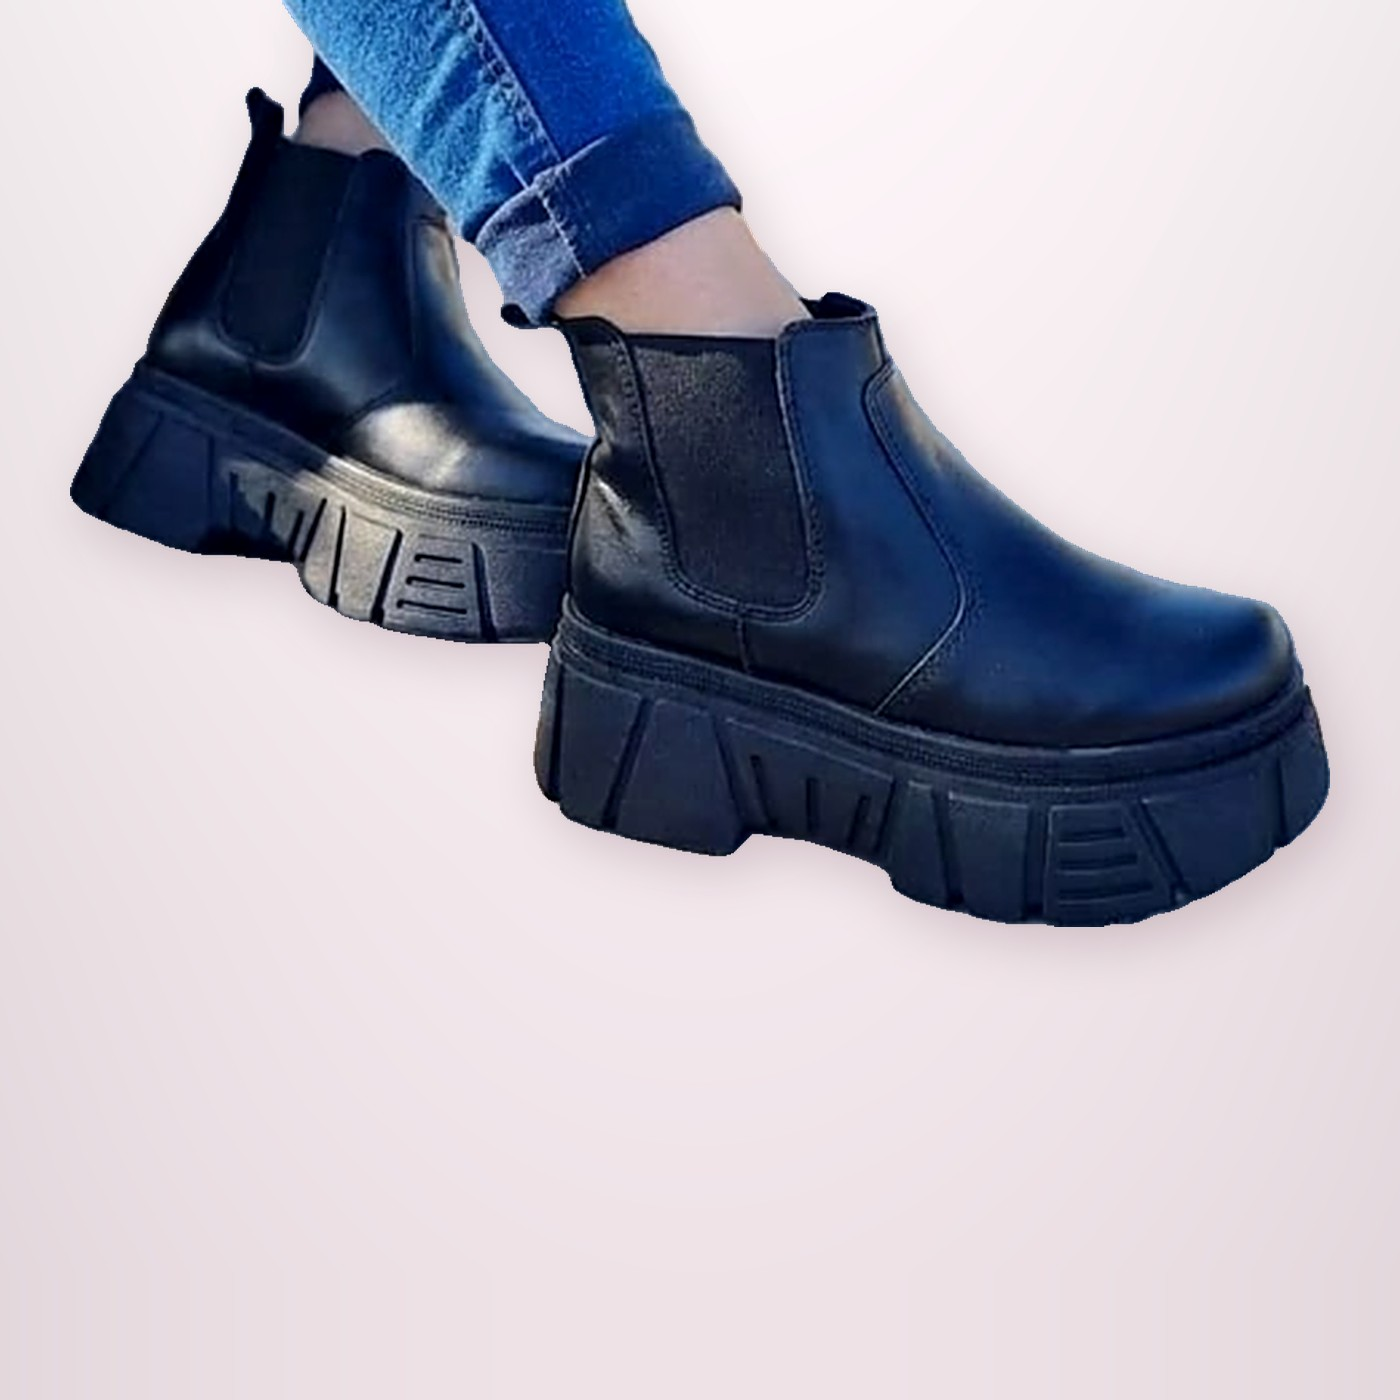
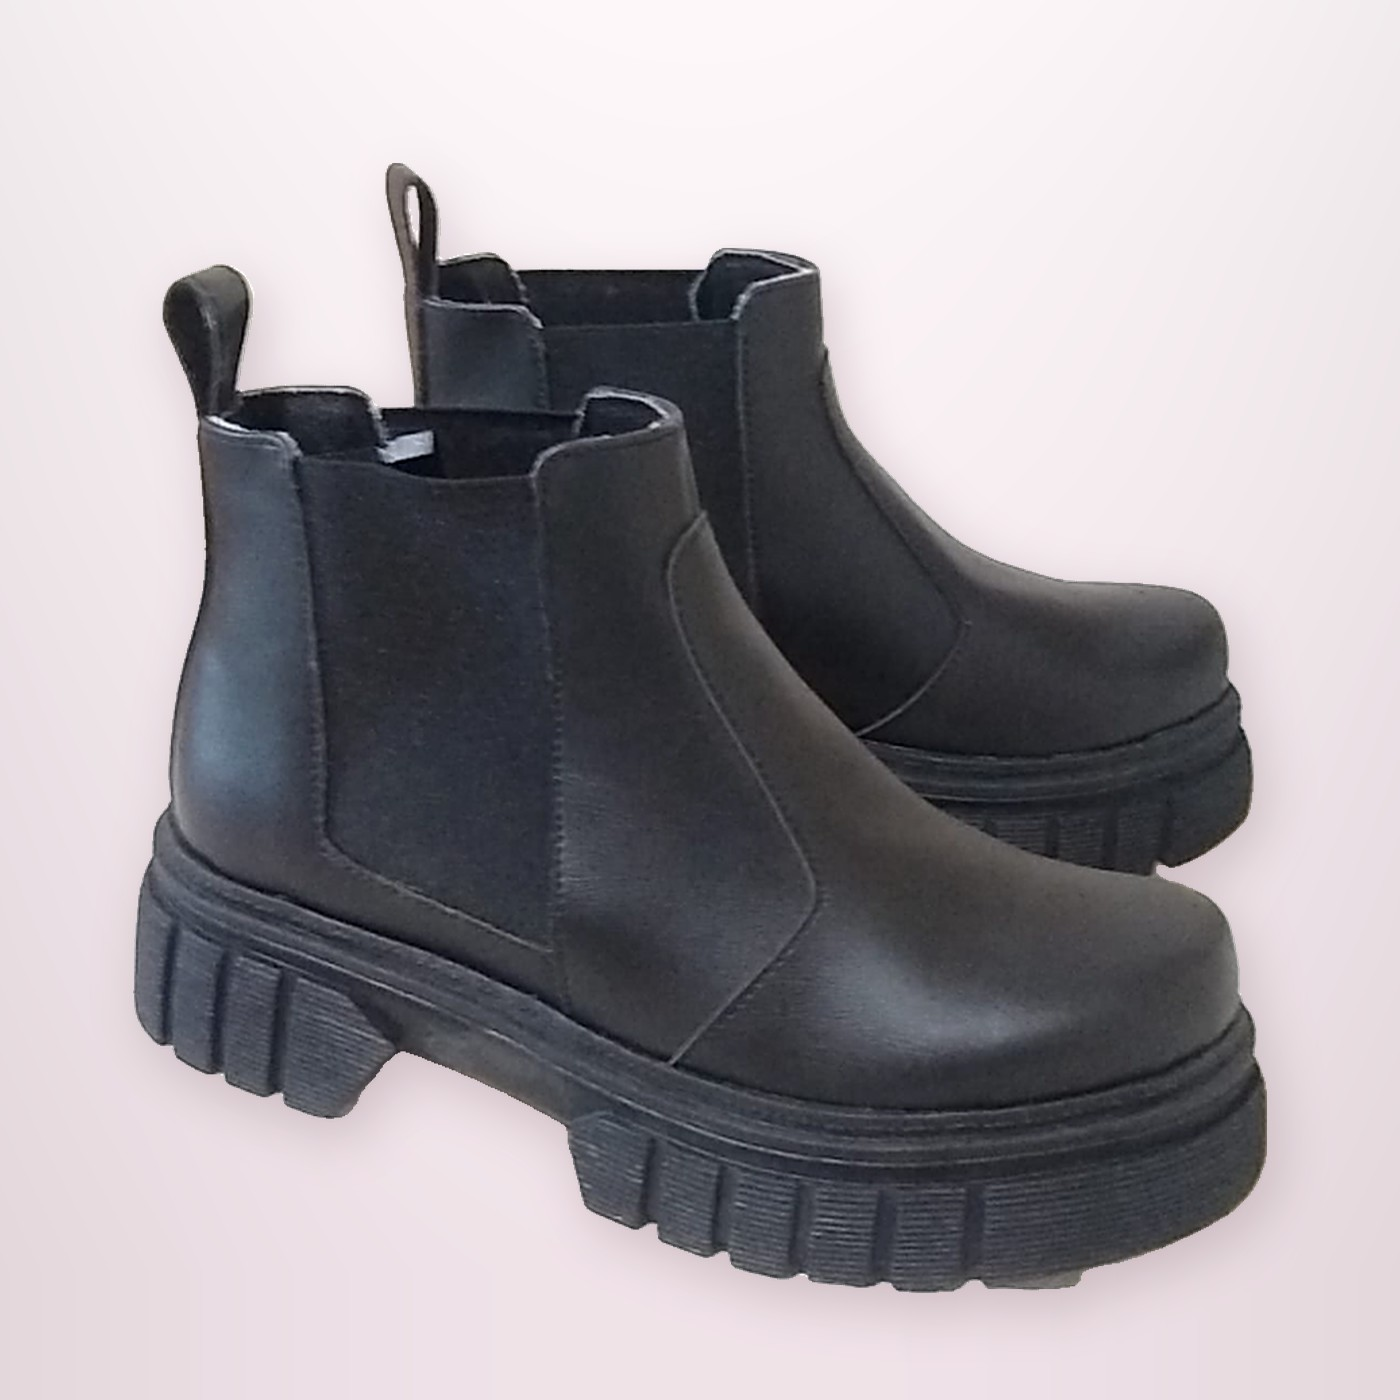
Borcego caña alta, bota con hebillas y nuevos colores
Borcego con cordones suma blanco con cadena; zapatilla botita con estrella
suma animal print; el borcego Keyla pasa a una foto de producto más limpia.

Claude-Session: https://claude.ai/code/session_016kC1pPyL2jkNLS5KGy46ZW

diff --git a/productos.js b/productos.js
@@ -63,17 +63,19 @@
     {id:29,cat:"borcegos",nombre:"Borcego con pulsera de tachas",desc:"Estilo chelsea con elásticos, pulsera con tachas y suela dentada alta.",precio:0,talles:[35,36,37,38,39,40],colores:[{id:"negro",nombre:"Negro",hex:"#1C1C1C",foto:"fotos/borcego-pulsera-tachas-negro.jpg"}]},
     {id:30,cat:"zapatillas",nombre:"Zapatillas urbanas Vitto",desc:"Plataforma blanca con suela caramelo y detalles cosidos.",precio:0,talles:[35,36,37,38,39,40],colores:[{id:"blanco",nombre:"Blanco",hex:"#F4F1EC",foto:"fotos/zapatilla-vitto-blanca.jpg"},{id:"camel",nombre:"Camel",hex:"#B07A4E",foto:"fotos/zapatilla-vitto-camel.jpg"},{id:"pastel",nombre:"Pastel (verde agua y celeste)",hex:"#A8DCC4",foto:"fotos/zapatilla-vitto-pastel.jpg"},{id:"violeta",nombre:"Violeta y negro",hex:"#6B3FC4",foto:"fotos/zapatilla-vitto-violeta.jpg"}]},
     {id:31,cat:"zapatillas",nombre:"Zapatillas estilo Samba",desc:"Tres tiras al costado, puntera de gamuza y suela caramelo. Damas del 35 al 41, hombre del 39 al 44.",precio:0,talles:[35,36,37,38,39,40,41,42,43,44],colores:[{id:"blanconegro",nombre:"Blanco y negro",hex:"#F4F1EC",foto:"fotos/zapatilla-samba-blanca-negra.jpg"},{id:"negro",nombre:"Negro",hex:"#1C1C1C",foto:"fotos/zapatilla-samba-negra-pc.jpg"},{id:"blanco",nombre:"Blanco, celeste y dorado",hex:"#F4F1EC",foto:"fotos/zapatilla-samba-blanca-celeste.jpg"},{id:"celeste",nombre:"Celeste",hex:"#A9C8E8",foto:"fotos/zapatilla-samba-celeste.jpg"},{id:"bordo",nombre:"Bordó",hex:"#7A1F3D",foto:"fotos/zapatilla-samba-bordo.jpg"},{id:"animal",nombre:"Animal print",hex:"#B07A3C",foto:"fotos/zapatilla-samba-animal-print.jpg"},{id:"blancobordo",nombre:"Blanco, bordó y dorado",hex:"#7A1F3D",foto:"fotos/zapatilla-samba-blanca-bordo.jpg"},{id:"beigecafe",nombre:"Beige y café",hex:"#9A5A32",foto:"fotos/zapatilla-samba-beige-cafe.jpg"},{id:"verde",nombre:"Verde",hex:"#1E8A4C",foto:"fotos/zapatilla-samba-verde.jpg"},{id:"rojo",nombre:"Rojo",hex:"#C4161C",foto:"fotos/zapatilla-samba-roja.jpg"},{id:"fucsia",nombre:"Fucsia",hex:"#D6246E",foto:"fotos/zapatilla-samba-fucsia.jpg"},{id:"verdeoscuro",nombre:"Verde inglés",hex:"#1F5E3A",foto:"fotos/zapatilla-samba-verde-oscuro.jpg"},{id:"blancobordogris",nombre:"Blanco, bordó y gris",hex:"#8A8D91",foto:"fotos/zapatilla-samba-blanca-bordo-gris.jpg"},{id:"chocolate",nombre:"Chocolate",hex:"#4E2E1E",foto:"fotos/zapatilla-samba-chocolate.jpg"}]},
-    {id:32,cat:"borcegos",nombre:"Borcego con cordones",desc:"Acordonado, con base dentada súper liviana.",precio:0,talles:[35,36,37,38,39,40],colores:[{id:"negro",nombre:"Negro",hex:"#1C1C1C",foto:"fotos/borcego-cordones-negro.jpg"},{id:"marron",nombre:"Marrón",hex:"#4E3428",foto:"fotos/borcego-cordones-marron.jpg"}]},
+    {id:32,cat:"borcegos",nombre:"Borcego con cordones",desc:"Acordonado, con base dentada súper liviana.",precio:0,talles:[35,36,37,38,39,40],colores:[{id:"negro",nombre:"Negro",hex:"#1C1C1C",foto:"fotos/borcego-cordones-negro.jpg"},{id:"marron",nombre:"Marrón",hex:"#4E3428",foto:"fotos/borcego-cordones-marron.jpg"},{id:"blancocadena",nombre:"Blanco con cadena",hex:"#F2EFEA",foto:"fotos/borcego-cordones-blanco-cadena.jpg"}]},
     {id:33,cat:"botas",nombre:"Bota texana corta con rayo",desc:"Detalle de rayo en gamuza con tachas, cierre lateral y taco de madera.",precio:0,talles:[35,36,37,38,39,40],colores:[{id:"negro",nombre:"Negro",hex:"#1C1C1C",foto:"fotos/bota-texana-rayo-negra.jpg"},{id:"suela",nombre:"Suela",hex:"#B8743E",foto:"fotos/bota-texana-rayo-suela.jpg"}]},
     {id:34,cat:"borcegos",nombre:"Borcego con elásticos Keyla",desc:"Estilo chelsea con elásticos a los costados y plataforma dentada.",precio:0,talles:[35,36,37,38,39,40],colores:[{id:"negro",nombre:"Negro",hex:"#1C1C1C",foto:"fotos/borcego-elastico-keyla-negro.jpg"}]},
     {id:35,cat:"sandalias",nombre:"Sandalia con aplique dorado",desc:"Tiras cruzadas, anillo al dedo con aplique dorado y doble pulsera con hebilla.",precio:0,talles:[35,36,37,38,39,40],colores:[{id:"negro",nombre:"Negro",hex:"#1C1C1C",foto:"fotos/sandalia-india-apliques-negra.jpg"}]},
     {id:36,cat:"sandalias",nombre:"Sandalia de tiras metalizadas",desc:"Dos tiras anchas, una metalizada y otra con brillos, hebilla al tobillo y base cómoda.",precio:0,talles:[35,36,37,38,39,40],colores:[{id:"plateado",nombre:"Plateado",hex:"#C9CDD2",foto:"fotos/sandalia-roma-plateada.jpg"},{id:"rose",nombre:"Rosé con glitter",hex:"#D9A89A",foto:"fotos/sandalia-roma-rose.jpg"},{id:"dorado",nombre:"Dorado con glitter",hex:"#C9A45C",foto:"fotos/sandalia-roma-dorada.jpg"}]},
-    {id:37,cat:"zapatillas",nombre:"Zapatillas botita con estrella",desc:"Caña alta de gamuza, estrella al costado y suela blanca.",precio:0,talles:[35,36,37,38,39,40,41],colores:[{id:"negro",nombre:"Negro",hex:"#1C1C1C",foto:"fotos/zapatilla-botita-estrella-negra.jpg"}]},
+    {id:37,cat:"zapatillas",nombre:"Zapatillas botita con estrella",desc:"Caña alta de gamuza, estrella al costado y suela blanca.",precio:0,talles:[35,36,37,38,39,40,41],colores:[{id:"negro",nombre:"Negro",hex:"#1C1C1C",foto:"fotos/zapatilla-botita-estrella-negra.jpg"},{id:"animal",nombre:"Animal print con estrella dorada",hex:"#B07A3C",foto:"fotos/zapatilla-botita-estrella-animal-print.jpg"}]},
     {id:38,cat:"zapatillas",nombre:"Zapatillas con yute y estrella",desc:"Detalles de yute, estrella al costado y plataforma blanca.",precio:0,talles:[35,36,37,38,39,40,41],colores:[{id:"camel",nombre:"Camel",hex:"#B08A5E",foto:"fotos/zapatilla-yute-camel.jpg"}]},
     {id:39,cat:"zapatillas",nombre:"Zapatillas con brillo Lurex",desc:"Tela con brillo, detalles charolados y plataforma blanca.",precio:0,talles:[35,36,37,38,39,40],colores:[{id:"plateado",nombre:"Plateado",hex:"#C9CDD2",foto:"fotos/zapatilla-lurex-plateada.jpg"},{id:"plomo",nombre:"Gris plomo",hex:"#6E7075",foto:"fotos/zapatilla-lurex-plomo.jpg"}]},
     {id:40,cat:"borcegos",nombre:"Borcego base tractor",desc:"Cuero con cordones y base tractor alta en tono arena.",precio:0,talles:[35,36,37,38,39,40],colores:[{id:"suela",nombre:"Suela",hex:"#A8683A",foto:"fotos/borcego-tractor-suela.jpg"}]},
     {id:41,cat:"borcegos",nombre:"Borcego Gaby",desc:"Acordonado, caña corta y plataforma dentada.",precio:0,talles:[35,36,37,38,39,40],colores:[{id:"negro",nombre:"Negro",hex:"#1C1C1C",foto:"fotos/borcego-gaby-negro.jpg"}]},
     {id:42,cat:"zapatillas",nombre:"Zapatillas con animal print y tachas",desc:"Negras con detalles animal print, tachas plateadas y plataforma blanca.",precio:0,talles:[35,36,37,38,39,40],colores:[{id:"negro",nombre:"Negro y animal print",hex:"#1C1C1C",foto:"fotos/zapatilla-vicky-animal-print.jpg"}]},
-    {id:43,cat:"botas",nombre:"Bota texana baja",desc:"Caña baja con recortes texanos, cierre lateral y taco de madera.",precio:0,talles:[35,36,37,38,39,40],colores:[{id:"negro",nombre:"Negro",hex:"#1C1C1C",foto:"fotos/bota-texana-baja-negra.jpg"},{id:"negroblanco",nombre:"Negro y blanco",hex:"#F4F1EC",foto:"fotos/bota-texana-baja-negra-blanca.jpg"},{id:"vibora",nombre:"Víbora",hex:"#4A4550",foto:"fotos/bota-texana-baja-vibora.jpg"}]}
+    {id:43,cat:"botas",nombre:"Bota texana baja",desc:"Caña baja con recortes texanos, cierre lateral y taco de madera.",precio:0,talles:[35,36,37,38,39,40],colores:[{id:"negro",nombre:"Negro",hex:"#1C1C1C",foto:"fotos/bota-texana-baja-negra.jpg"},{id:"negroblanco",nombre:"Negro y blanco",hex:"#F4F1EC",foto:"fotos/bota-texana-baja-negra-blanca.jpg"},{id:"vibora",nombre:"Víbora",hex:"#4A4550",foto:"fotos/bota-texana-baja-vibora.jpg"}]},
+    {id:44,cat:"borcegos",nombre:"Borcego caña alta",desc:"Caña alta acordonada, cierre lateral y plataforma dentada.",precio:0,talles:[35,36,37,38,39,40],colores:[{id:"negro",nombre:"Negro",hex:"#1C1C1C",foto:"fotos/borcego-cana-alta-negro.jpg"}]},
+    {id:45,cat:"botas",caja:"bota-alta",nombre:"Bota caña alta con hebillas",desc:"Caña alta con seis hebillas plateadas, correa al tobillo y suela dentada.",precio:0,talles:[35,36,37,38,39,40],colores:[{id:"negro",nombre:"Negro",hex:"#1C1C1C",foto:"fotos/bota-hebillas-malaga-negra.jpg"}]}
   ]
 });
